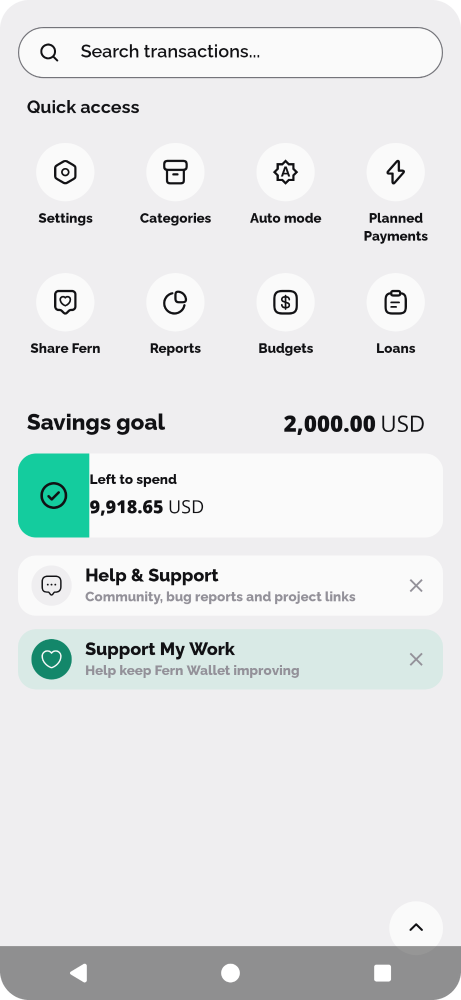
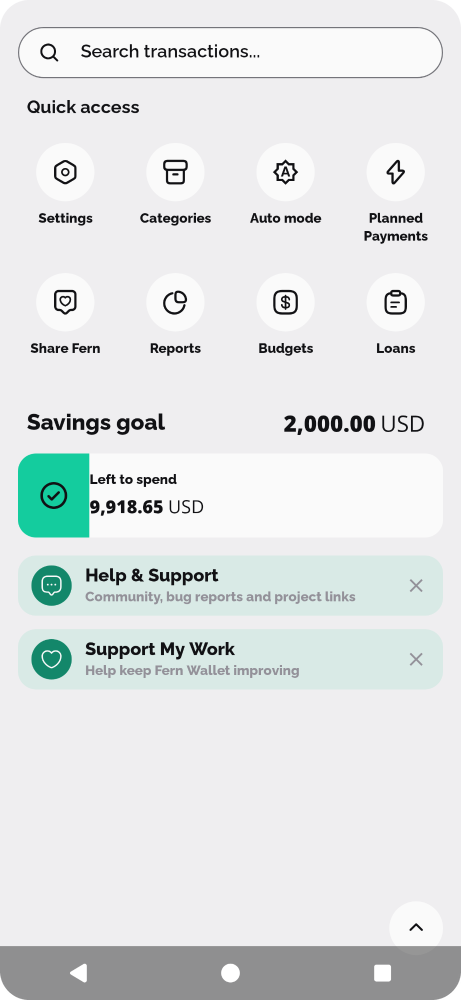
Bring the Home cards back on every install or update; tint both
The one-time cards compared the dismissal with the app version code, but test
builds and re-installs keep the same code (206), so a dismissed card never came
back. They now compare with the install time (PackageInfo.lastUpdateTime), which
changes with every fresh install and update. New DataStore keys, so cards
dismissed by the earlier build show once more.

The Help & Support card now has the same accent tint and icon badge as the
Support My Work card.

Changed region(s): [[0.0304, 0.558, 0.9718, 0.62]]

diff --git a/shared/data/core/src/main/java/com/ivy/data/datasource/SupportCardsDataSource.kt b/shared/data/core/src/main/java/com/ivy/data/datasource/SupportCardsDataSource.kt
@@ -4,7 +4,7 @@ import androidx.datastore.core.DataStore
 import androidx.datastore.preferences.core.Preferences
 import androidx.datastore.preferences.core.booleanPreferencesKey
 import androidx.datastore.preferences.core.edit
-import androidx.datastore.preferences.core.intPreferencesKey
+import androidx.datastore.preferences.core.longPreferencesKey
 import kotlinx.coroutines.flow.Flow
 import kotlinx.coroutines.flow.map
 import javax.inject.Inject
@@ -12,19 +12,23 @@ import javax.inject.Inject
 /**
  * What the Home menu remembers about its Help & Support / Support My Work cards.
  *
+ * An install stamp is the time the app was last installed or updated (see `PackageInfo.lastUpdateTime`).
+ * It changes with every fresh install and every update, even one that keeps the same version code.
+ *
  * @property permanentSupportCard whether the always-on Support My Work card is wanted (Appearance switch).
- * @property helpDismissedIn app version code in which the one-time Help & Support card was dismissed.
- * @property supportDismissedIn app version code in which the one-time Support My Work card was dismissed.
+ * @property helpDismissedFor install stamp for which the one-time Help & Support card was dismissed.
+ * @property supportDismissedFor install stamp for which the one-time Support My Work card was dismissed.
  */
 data class SupportCardsPrefs(
     val permanentSupportCard: Boolean,
-    val helpDismissedIn: Int?,
-    val supportDismissedIn: Int?,
+    val helpDismissedFor: Long?,
+    val supportDismissedFor: Long?,
 )
 
 /**
- * Persists [SupportCardsPrefs]. The two one-time cards store the version code they were dismissed
- * in, separately, so each comes back by itself after an app update and neither affects the other.
+ * Persists [SupportCardsPrefs]. The two one-time cards store the install stamp they were dismissed
+ * for, separately, so each comes back by itself after the next install or update and neither
+ * affects the other.
  */
 class SupportCardsDataSource @Inject constructor(
     private val dataStore: DataStore<Preferences>
@@ -32,8 +36,8 @@ class SupportCardsDataSource @Inject constructor(
     val prefs: Flow<SupportCardsPrefs> = dataStore.data.map {
         SupportCardsPrefs(
             permanentSupportCard = it[PermanentSupportCardKey] ?: true,
-            helpDismissedIn = it[HelpDismissedInKey],
-            supportDismissedIn = it[SupportDismissedInKey],
+            helpDismissedFor = it[HelpDismissedForKey],
+            supportDismissedFor = it[SupportDismissedForKey],
         )
     }
 
@@ -41,17 +45,20 @@ class SupportCardsDataSource @Inject constructor(
         dataStore.edit { it[PermanentSupportCardKey] = enabled }
     }
 
-    suspend fun dismissHelpCard(versionCode: Int) {
-        dataStore.edit { it[HelpDismissedInKey] = versionCode }
+    suspend fun dismissHelpCard(installStamp: Long) {
+        dataStore.edit { it[HelpDismissedForKey] = installStamp }
     }
 
-    suspend fun dismissSupportCard(versionCode: Int) {
-        dataStore.edit { it[SupportDismissedInKey] = versionCode }
+    suspend fun dismissSupportCard(installStamp: Long) {
+        dataStore.edit { it[SupportDismissedForKey] = installStamp }
     }
 
     companion object {
         private val PermanentSupportCardKey = booleanPreferencesKey("home_support_card_enabled")
-        private val HelpDismissedInKey = intPreferencesKey("home_help_card_dismissed_version")
-        private val SupportDismissedInKey = intPreferencesKey("home_support_card_dismissed_version")
+
+        // New key names: the version-code ints saved by the first release of these cards are ignored,
+        // so the cards show once more after this update.
+        private val HelpDismissedForKey = longPreferencesKey("home_help_card_dismissed_install")
+        private val SupportDismissedForKey = longPreferencesKey("home_support_card_dismissed_install")
     }
 }

diff --git a/shared/data/core/src/test/java/com/ivy/data/datasource/SupportCardsDataSourceTest.kt b/shared/data/core/src/test/java/com/ivy/data/datasource/SupportCardsDataSourceTest.kt
@@ -24,9 +24,9 @@ class SupportCardsDataSourceTest {
     /** Defaults of a fresh install; [SupportCardsPrefs] itself has none. */
     private fun prefs(
         permanentSupportCard: Boolean = true,
-        helpDismissedIn: Int? = null,
-        supportDismissedIn: Int? = null,
-    ) = SupportCardsPrefs(permanentSupportCard, helpDismissedIn, supportDismissedIn)
+        helpDismissedFor: Long? = null,
+        supportDismissedFor: Long? = null,
+    ) = SupportCardsPrefs(permanentSupportCard, helpDismissedFor, supportDismissedFor)
 
     private fun dataSource() = SupportCardsDataSource(
         PreferenceDataStoreFactory.create(scope = scope, produceFile = { file })
@@ -39,8 +39,8 @@ class SupportCardsDataSourceTest {
     fun `defaults on a fresh install`() = runTest {
         dataSource().prefs.first() shouldBe prefs(
             permanentSupportCard = true,
-            helpDismissedIn = null,
-            supportDismissedIn = null,
+            helpDismissedFor = null,
+            supportDismissedFor = null,
         )
     }
 
@@ -48,25 +48,25 @@ class SupportCardsDataSourceTest {
     fun `the two one-time cards are dismissed independently`() = runTest {
         val dataSource = dataSource()
 
-        dataSource.dismissHelpCard(206)
-        dataSource.prefs.first() shouldBe prefs(helpDismissedIn = 206, supportDismissedIn = null)
+        dataSource.dismissHelpCard(1_000L)
+        dataSource.prefs.first() shouldBe prefs(helpDismissedFor = 1_000L, supportDismissedFor = null)
 
-        dataSource.dismissSupportCard(207)
-        dataSource.prefs.first() shouldBe prefs(helpDismissedIn = 206, supportDismissedIn = 207)
+        dataSource.dismissSupportCard(2_000L)
+        dataSource.prefs.first() shouldBe prefs(helpDismissedFor = 1_000L, supportDismissedFor = 2_000L)
     }
 
     @Test
     fun `the permanent card switch does not touch the dismissals`() = runTest {
         val dataSource = dataSource()
-        dataSource.dismissHelpCard(206)
-        dataSource.dismissSupportCard(206)
+        dataSource.dismissHelpCard(1_000L)
+        dataSource.dismissSupportCard(1_000L)
 
         dataSource.setPermanentSupportCard(false)
 
         dataSource.prefs.first() shouldBe prefs(
             permanentSupportCard = false,
-            helpDismissedIn = 206,
-            supportDismissedIn = 206,
+            helpDismissedFor = 1_000L,
+            supportDismissedFor = 1_000L,
         )
     }
 
@@ -75,8 +75,8 @@ class SupportCardsDataSourceTest {
         val firstRun = CoroutineScope(Dispatchers.Unconfined + SupervisorJob())
         SupportCardsDataSource(PreferenceDataStoreFactory.create(scope = firstRun, produceFile = { file })).apply {
             setPermanentSupportCard(false)
-            dismissHelpCard(206)
-            dismissSupportCard(205)
+            dismissHelpCard(1_000L)
+            dismissSupportCard(500L)
         }
         firstRun.cancel() // the app process ends; a file allows only one open DataStore
 
@@ -87,8 +87,8 @@ class SupportCardsDataSourceTest {
 
         restarted.prefs.first() shouldBe prefs(
             permanentSupportCard = false,
-            helpDismissedIn = 206,
-            supportDismissedIn = 205,
+            helpDismissedFor = 1_000L,
+            supportDismissedFor = 500L,
         )
         secondRun.cancel()
     }

diff --git a/feature/home/src/test/java/com/ivy/home/SupportCardsUiTest.kt b/feature/home/src/test/java/com/ivy/home/SupportCardsUiTest.kt
@@ -5,15 +5,16 @@ import io.kotest.matchers.shouldBe
 import org.junit.Test
 
 class SupportCardsUiTest {
-    private val v1 = 206
-    private val v2 = 207
+    // When the app was installed or updated: the second one is later, a different install.
+    private val v1 = 1_700_000_000_000L
+    private val v2 = 1_700_000_900_000L
 
     /** Defaults of a fresh install; [SupportCardsPrefs] itself has none. */
     private fun prefs(
         permanentSupportCard: Boolean = true,
-        helpDismissedIn: Int? = null,
-        supportDismissedIn: Int? = null,
-    ) = SupportCardsPrefs(permanentSupportCard, helpDismissedIn, supportDismissedIn)
+        helpDismissedFor: Long? = null,
+        supportDismissedFor: Long? = null,
+    ) = SupportCardsPrefs(permanentSupportCard, helpDismissedFor, supportDismissedFor)
 
     @Test
     fun `a fresh install shows both one-time cards and not the permanent one`() {
@@ -28,28 +29,28 @@ class SupportCardsUiTest {
 
     @Test
     fun `dismissing the help card leaves the support card, and the other way round`() {
-        supportCardsUi(prefs(helpDismissedIn = v1), v1) shouldBe
+        supportCardsUi(prefs(helpDismissedFor = v1), v1) shouldBe
             SupportCardsUi(help = false, highlightedSupport = true, permanentSupport = false)
 
-        supportCardsUi(prefs(supportDismissedIn = v1), v1) shouldBe
+        supportCardsUi(prefs(supportDismissedFor = v1), v1) shouldBe
             SupportCardsUi(help = true, highlightedSupport = false, permanentSupport = true)
     }
 
     @Test
     fun `once both are dismissed the permanent card takes the place of the support card`() {
-        supportCardsUi(prefs(helpDismissedIn = v1, supportDismissedIn = v1), v1) shouldBe
+        supportCardsUi(prefs(helpDismissedFor = v1, supportDismissedFor = v1), v1) shouldBe
             SupportCardsUi(help = false, highlightedSupport = false, permanentSupport = true)
     }
 
     @Test
-    fun `an update brings both one-time cards back, each dismissed per version`() {
-        val dismissedInV1 = prefs(helpDismissedIn = v1, supportDismissedIn = v1)
+    fun `a new install or update brings both one-time cards back, even with the same version code`() {
+        val dismissedForV1 = prefs(helpDismissedFor = v1, supportDismissedFor = v1)
 
-        supportCardsUi(dismissedInV1, v2) shouldBe
+        supportCardsUi(dismissedForV1, v2) shouldBe
             SupportCardsUi(help = true, highlightedSupport = true, permanentSupport = false)
 
         // Dismissing in the new version hides them again, whatever happened in the old one.
-        supportCardsUi(prefs(helpDismissedIn = v2, supportDismissedIn = v2), v2) shouldBe
+        supportCardsUi(prefs(helpDismissedFor = v2, supportDismissedFor = v2), v2) shouldBe
             SupportCardsUi(help = false, highlightedSupport = false, permanentSupport = true)
     }
 
@@ -59,7 +60,7 @@ class SupportCardsUiTest {
 
         // Dismissed and switched off: no Support My Work card at all, but the help card is unaffected.
         supportCardsUi(
-            prefs(permanentSupportCard = false, supportDismissedIn = v1),
+            prefs(permanentSupportCard = false, supportDismissedFor = v1),
             v1,
         ) shouldBe SupportCardsUi(help = true, highlightedSupport = false, permanentSupport = false)
     }

diff --git a/feature/home/src/main/java/com/ivy/home/HomeSupportCards.kt b/feature/home/src/main/java/com/ivy/home/HomeSupportCards.kt
@@ -65,19 +65,20 @@ data class SupportCardsUi(
 }
 
 /**
- * The one-time cards show until dismissed in the running app version [versionCode], so they come
- * back after every fresh install and update. Each is dismissed on its own. The permanent card
- * follows its switch and steps aside while the one-time Support My Work card is up, so the two
- * never appear together.
+ * The one-time cards show until dismissed for the running install, identified by [installStamp]
+ * (when the app was last installed or updated), so they come back after every fresh install and
+ * every update, even one that keeps the same version code. Each is dismissed on its own. The
+ * permanent card follows its switch and steps aside while the one-time Support My Work card is
+ * up, so the two never appear together.
  *
  * [prefs] is null until stored values are read: nothing is shown rather than a card that was
  * already dismissed flashing in.
  */
-fun supportCardsUi(prefs: SupportCardsPrefs?, versionCode: Int): SupportCardsUi {
+fun supportCardsUi(prefs: SupportCardsPrefs?, installStamp: Long): SupportCardsUi {
     if (prefs == null) return SupportCardsUi.Hidden
-    val highlightedSupport = prefs.supportDismissedIn != versionCode
+    val highlightedSupport = prefs.supportDismissedFor != installStamp
     return SupportCardsUi(
-        help = prefs.helpDismissedIn != versionCode,
+        help = prefs.helpDismissedFor != installStamp,
         highlightedSupport = highlightedSupport,
         permanentSupport = prefs.permanentSupportCard && !highlightedSupport,
     )
@@ -125,7 +126,7 @@ internal fun SupportCards(
                     icon = R.drawable.ic_vue_messages_msg,
                     title = stringResource(R.string.help_support),
                     subtitle = stringResource(R.string.home_help_card_description),
-                    highlighted = false,
+                    highlighted = true,
                     onClick = { nav.navigateTo(HelpSupportScreen) },
                     onDismiss = onDismissHelp,
                     contentTag = HelpCardTag,
@@ -179,7 +180,7 @@ internal fun SupportCards(
 /**
  * A short card with a round icon, a title and a line of text, and its own dismiss button. The tap
  * area and the dismiss button are siblings, so a screen reader reaches each one separately.
- * [highlighted] gives it the accent-tinted fill and a filled accent icon badge.
+ * [highlighted] gives it the accent-tinted fill and a filled accent icon badge; both one-time cards use it.
  */
 @Composable
 private fun CompactCard(

diff --git a/feature/home/src/main/java/com/ivy/home/HomeViewModel.kt b/feature/home/src/main/java/com/ivy/home/HomeViewModel.kt
@@ -111,10 +111,11 @@ class HomeViewModel @Inject constructor(
     private val supportCardsDataSource: SupportCardsDataSource,
     @ApplicationContext appContext: Context,
 ) : ComposeViewModel<HomeState, HomeEvent>() {
-    // The one-time cards come back whenever this changes: a fresh install or an update.
+    // When the app was last installed or updated. The one-time cards come back whenever it changes,
+    // which a version code can't promise: test builds and re-installs keep the same one.
     @Suppress("DEPRECATION") // the Flags overload needs API 33; this works on every supported version
-    private val versionCode = appContext.packageManager
-        .getPackageInfo(appContext.packageName, 0).longVersionCode.toInt()
+    private val installStamp = appContext.packageManager
+        .getPackageInfo(appContext.packageName, 0).lastUpdateTime
 
     init {
         // e.g. a deleted transaction restored by Undo while Home is already showing.
@@ -194,7 +195,7 @@ class HomeViewModel @Inject constructor(
             expanded = getExpanded(),
             hideIncome = getHideIncome(),
             celebrateSavingsGoal = celebrateSavingsGoal,
-            supportCards = supportCardsUi(supportCardsPrefs, versionCode),
+            supportCards = supportCardsUi(supportCardsPrefs, installStamp),
         )
     }
 
@@ -293,8 +294,8 @@ class HomeViewModel @Inject constructor(
                 is HomeEvent.DeleteTransaction -> deleteTransaction(event.transaction)
                 HomeEvent.ToggleHideBalance -> toggleHideBalance()
                 HomeEvent.SavingsGoalCelebrated -> savingsGoalCelebrated()
-                HomeEvent.DismissHelpCard -> supportCardsDataSource.dismissHelpCard(versionCode)
-                HomeEvent.DismissSupportCard -> supportCardsDataSource.dismissSupportCard(versionCode)
+                HomeEvent.DismissHelpCard -> supportCardsDataSource.dismissHelpCard(installStamp)
+                HomeEvent.DismissSupportCard -> supportCardsDataSource.dismissSupportCard(installStamp)
             }
         }
     }

diff --git a/feature/home/src/main/java/com/ivy/home/HomeEvent.kt b/feature/home/src/main/java/com/ivy/home/HomeEvent.kt
@@ -39,10 +39,10 @@ sealed interface HomeEvent {
     /** The savings-goal celebration played: don't play it again for this goal amount. */
     data object SavingsGoalCelebrated : HomeEvent
 
-    /** The one-time Help & Support card was dismissed: hidden until the next app version. */
+    /** The one-time Help & Support card was dismissed: hidden until the next install or update. */
     data object DismissHelpCard : HomeEvent
 
-    /** The one-time Support My Work card was dismissed: hidden until the next app version. */
+    /** The one-time Support My Work card was dismissed: hidden until the next install or update. */
     data object DismissSupportCard : HomeEvent
 
     /** The tab is shown again after another tab: reload its data. */

diff --git a/CHANGELOG.md b/CHANGELOG.md
@@ -28,9 +28,10 @@ First Fern Wallet changes on top of Ivy Wallet `2025.07.17 (206)`.
 ### Home menu cards
 - The "Fern Wallet is open-source" card is gone from the Home menu.
 - After a fresh install and after every app update, the menu shows two short cards you can dismiss
-  with the ✕: **Help & Support** (opens the Help & Support page) and a highlighted
-  **Support My Work** (accent-tinted, with a round icon badge). Each is remembered separately per
-  app version, so dismissing one never hides the other, and both come back after the next update.
+  with the ✕: **Help & Support** (opens the Help & Support page) and **Support My Work**. Both are
+  accent-tinted with a round icon badge. They stay until you dismiss them. Each is remembered
+  separately for the current install, so dismissing one never hides the other, and both come back
+  after the next install or update, even one that keeps the same version number.
 - **Settings → Appearance → Home menu → Show Support My Work card** keeps or removes the permanent
   Support My Work card. It doesn't affect the one-time cards. While the one-time Support My Work
   card is showing, the permanent one steps aside, so you never see two.
